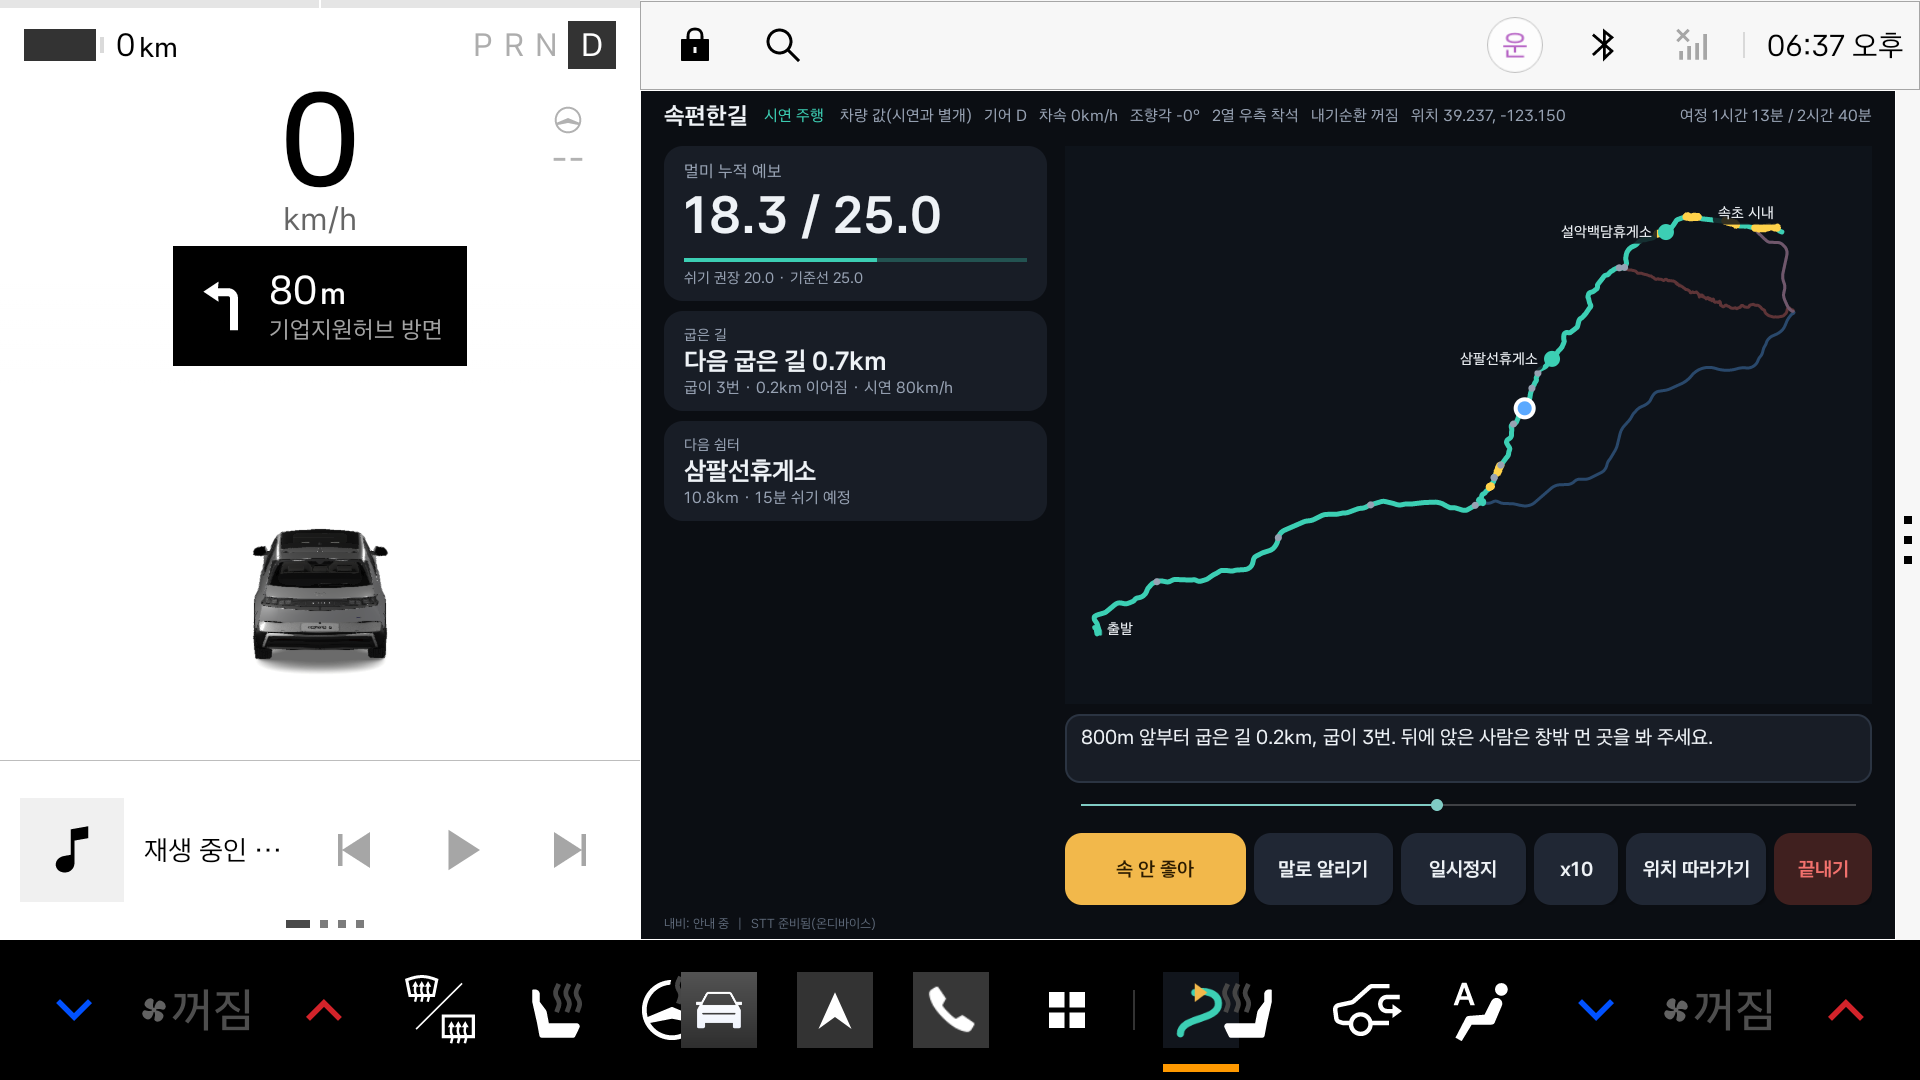
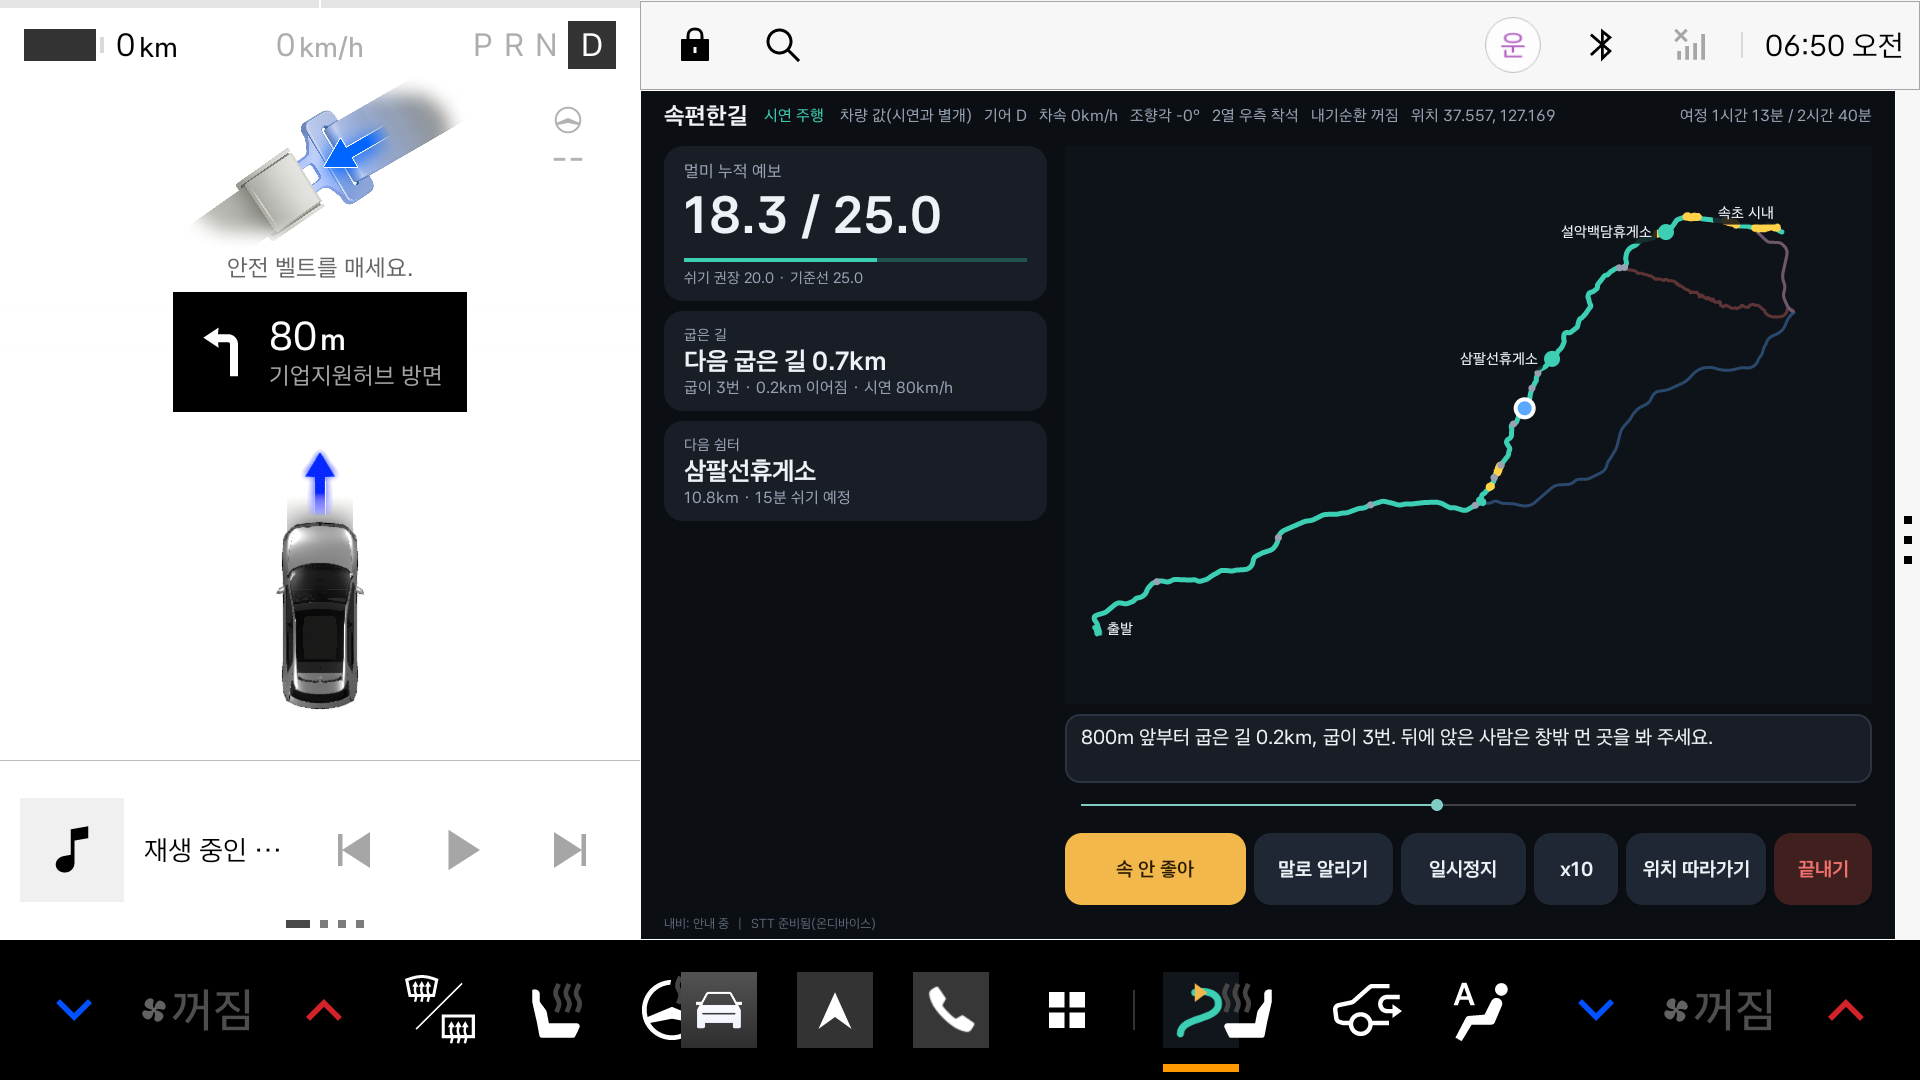
APK 파일명을 공모전 규칙에 맞추고 캡처를 출발지 위치로 다시 찍음
- apk/박윤빈_속편한길_release.apk (팀명_앱이름_release.apk 규칙, 내용은 그대로)
- 에뮬레이터 위치를 출발지(서울 상일IC)로 두고 docs/screenshots 01~08을 다시 찍음

diff --git a/README.md b/README.md
@@ -29,10 +29,10 @@
 
 ### APK로 설치
 
-`apk/sokpyeon_SokpyeonRoad_release.apk`를 Pleos Connect Emulator(아래)에 설치합니다.
+`apk/박윤빈_속편한길_release.apk`를 Pleos Connect Emulator(아래)에 설치합니다.
 
 ```bash
-adb install apk/sokpyeon_SokpyeonRoad_release.apk
+adb install apk/박윤빈_속편한길_release.apk
 adb shell am start -n app.sokpyeon.road/.ui.MainActivity
 ```
 
